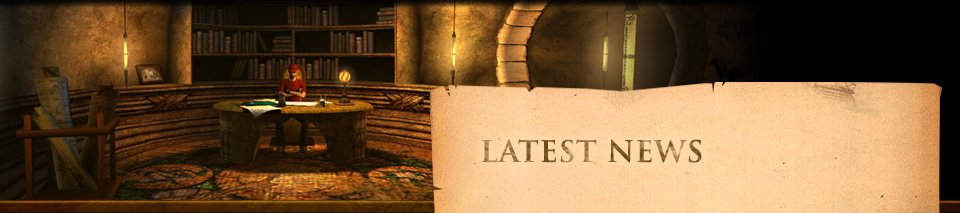
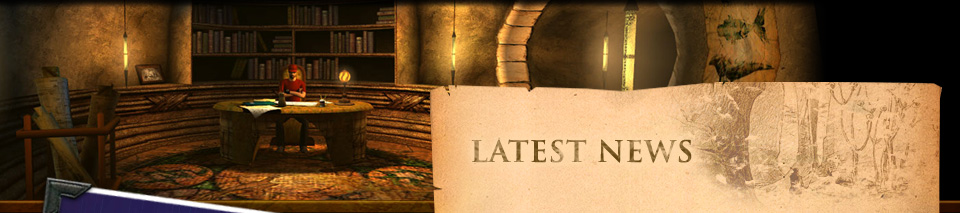
gave all pages a decent header

Changed region(s): [[0.4688, 0.0, 0.9688, 0.9296], [0.0312, 0.8169, 0.3125, 1.0], [0.9375, 0.3944, 0.9688, 0.4225]]

diff --git a/output/assets/style/moul.css b/output/assets/style/moul.css
@@ -160,10 +160,6 @@ body {
 
 /* main wrapper in */
 
-#main-wrapper-inside {
-	width:      960px;
-}
-
 .halfwidth #main-wrapper-inside {
 	background: url(/assets/images/background/right-bottom.jpg) no-repeat bottom left;
 }
@@ -179,7 +175,7 @@ body {
 
 	min-height: 640px;
 
-	padding: 80px 60px 60px 471px;
+	padding: 38px 60px 60px 471px;
 }
 
 .halfwidth-with-banner #main {
@@ -211,19 +207,36 @@ body {
 /* headers */
 
 #main h1 {
-	font-family: Georgia, "Times New Roman", Times, serif;
-	font-size: 40px;
-	font-weight: normal;
+	position: relative;
 
-	text-transform: uppercase;
+	height: 132px;
+	width:  489px;
 
-	letter-spacing: 1px;
+	right: 0;
+	top:   0;
+}
 
-	margin: 0 0 20px 0;
-	padding: 0 0 0 0;
+body#page-play #main h1 {
+	background: url(/assets/images/header/page-play.jpg) no-repeat top left;
+}
+
+body#page-about #main h1 {
+	background: url(/assets/images/header/page-about.jpg) no-repeat top left;
+}
+
+body#page-media #main h1 {
+	background: url(/assets/images/header/page-media.jpg) no-repeat top left;
+}
+
+body#page-developers #main h1 {
+	background: url(/assets/images/header/page-developers.jpg) no-repeat top left;
 }
 
 .halfwidth-with-banner #main h1 {
+	display: none;
+}
+
+#main h1 span {
 	display: none;
 }
 
@@ -237,8 +250,6 @@ body {
 	text-transform: uppercase;
 
 	letter-spacing: 1px;
-
-	border-top: 1px solid #c49860;
 
 	padding: 8px 0 0 0;
 	margin: 29px 0 18px 0;
@@ -282,6 +293,16 @@ body {
 	left: 0;
 }
 
+#main #sidebar-pic-home {
+	position: absolute;
+
+	width: 471px;
+	height: 640px;
+
+	top: 0;
+	left: 0;
+}
+
 /* text */
 
 #main p {
@@ -309,7 +330,7 @@ body {
 
 	line-height: 18px;
 
-	text-decoration: none;
+	text-decoration: underline;
 }
 
 #main p a:hover {
@@ -327,7 +348,7 @@ body {
 /* sub-navigation */
 
 #main #subnav {
-	margin: 20px 0;
+	margin: 0 0 20px 0;
 }
 
 #main #subnav li {
@@ -339,9 +360,10 @@ body {
 #main #subnav a,
 #main #subnav span.active {
 	font-family: Georgia, "Times New Roman", Times, serif;
-	font-size: 10px;
+	font-size: 11px;
 	font-weight: bold;
 
+	text-decoration: underline;
 	text-transform: uppercase;
 }
 
